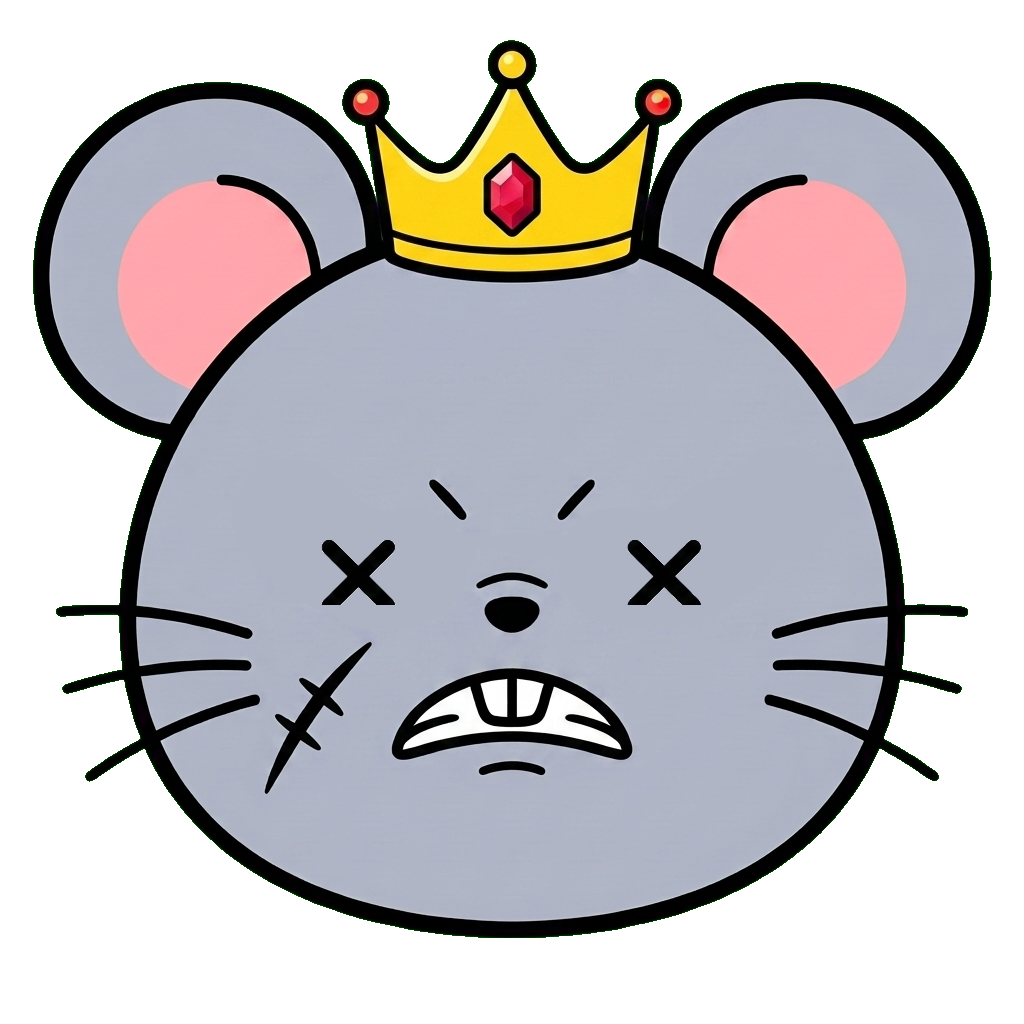
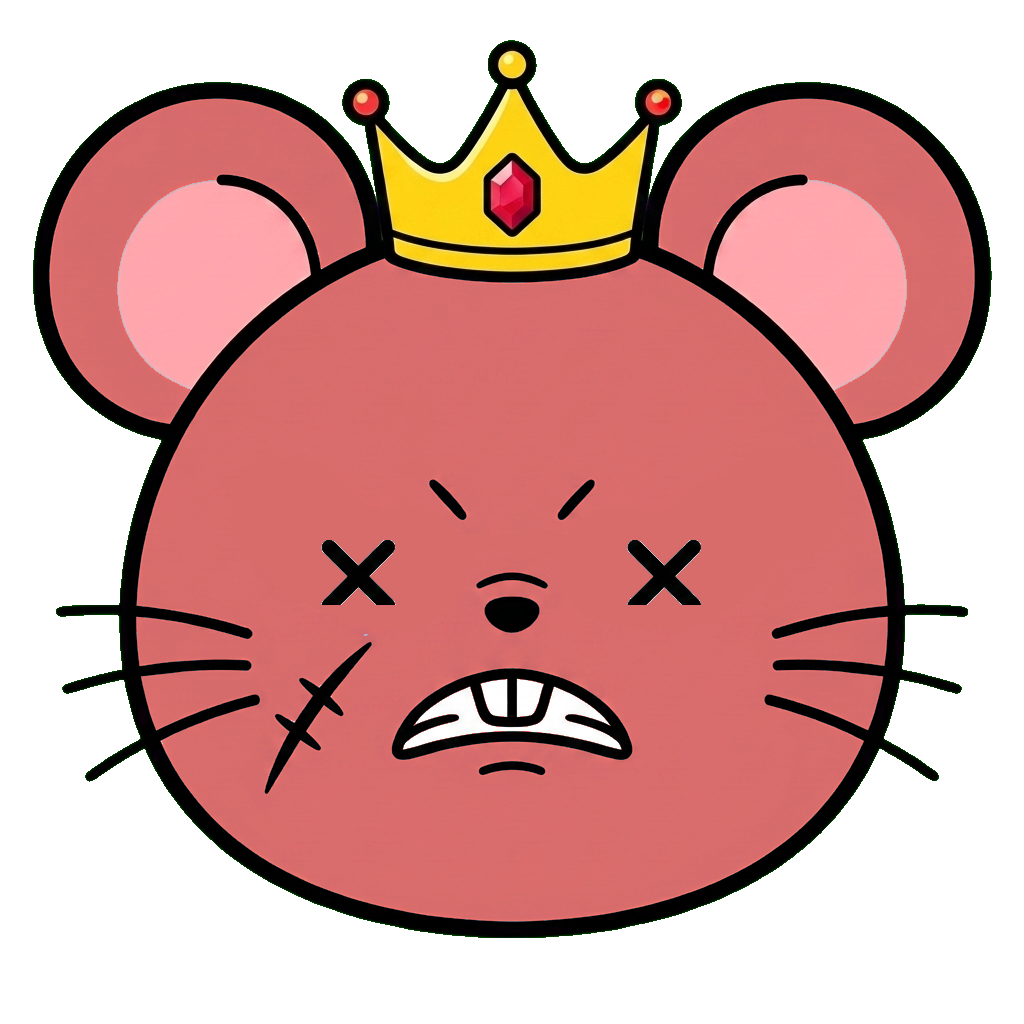
fix(skin): dead 색배리 + % 게이지 노트 옆 + bounce holding 만
dead 색배리:
- paw_mouse_holdhead_dead.png 회색 머리 (176,182,198) → 진한 빨강 (218,109,109)
- R*1.24 G*0.6 B*0.55 변환
- holdhead.png 톤 일치
- ears 분홍 (R>240) 보존

% 게이지 위치 변경:
- 화면 우측 상단 → 각 holding hold note 의 head sprite 우측 상단
- 폰트 sz(22) → sz(11) (안 거슬리게 작게)
- 색 흰색 + 검정 shadow
- 좌표: sx + hwBase*0.95, hY - hhBase*0.85

bounce 범위 변경:
- falling 시 bounce X (= n.holding 조건 추가)
- holding 시만 심장 박동 pulse

FORCE_REPATCH_VERSION 40 → 41

diff --git a/index.html b/index.html
@@ -22,7 +22,7 @@
 // E2E 6차 — 자동 reload 버튼 제거 + 안내 문구 모달 동작 검증.
 // E2E 7차 — Preview 가드 + 검색/차트 hitTest 차단 적용 후 정상 popup 트리거 검증.
 // E2E 8차 — 업데이트 모달 검은 오버레이 영역 입력 차단 검증.
-window.__BUILD_TS = 20260512180038;
+window.__BUILD_TS = 20260512181330;
 // ★ Firebase goOffline 부작용 — 인게임 진입 시 fbDb.goOffline() 호출하면 in-flight 중이던
 //   .set()/.once() Promise 들이 "Error: disconnect" 로 reject. 모두 fire-and-forget (결과 무관)
 //   이라 의도된 현상이지만 .catch 없이 쏘고 있어 "Uncaught (in promise)" 경고 스팸 발생.
@@ -1218,7 +1218,7 @@ const FORCE_REPATCH_LIST = [
 // ★ FORCE_REPATCH_VERSION — 매 force list PNG 변경 시 +1.
 //   사용자 환경 lastForceVersion < 이 값 이면 force list 의 PNG 자동 re-patch.
 //   사용자 받기 / patch 완료 시 lastForceVersion = 이 값 → 다음 reload 시 patch X.
-const FORCE_REPATCH_VERSION = 40;
+const FORCE_REPATCH_VERSION = 41;
 
 function assetUrl(path) {
   // ★ force list 의 PNG 는 ?v=lastReceived 또는 BUILD_TS query — 사용자 받기 마다 query 변경
@@ -11867,26 +11867,29 @@ function renderPawDeadFx() {
   ctx.restore();
 }
 
-// ★ paw_mouse 전용: 우측 상단에 hold body 남은 지속시간 % 표시
+// ★ paw_mouse 전용: 각 holding hold note 의 우측 상단에 남은 % (안 거슬리게 작게)
 function renderPawHoldPercent() {
   if (state !== 'playing' || currentSkin !== 'paw_mouse') return;
-  let pct = -1;
-  for (const n of nodes) {
-    if (n.holding && n.endTime > n.time) {
-      const remaining = Math.max(0, 1 - (gameTime - n.time) / (n.endTime - n.time));
-      if (remaining > pct) pct = remaining;
-    }
-  }
-  if (pct < 0) return;
-  const txt = Math.round(pct * 100) + '%';
   ctx.save();
-  ctx.font = 'bold ' + sz(22) + 'px sans-serif';
-  ctx.textAlign = 'right';
-  ctx.textBaseline = 'top';
-  ctx.fillStyle = 'rgba(0,0,0,0.6)';
-  ctx.fillText(txt, W - sz(18), safeTop + sz(18));
-  ctx.fillStyle = '#ff6680';
-  ctx.fillText(txt, W - sz(20), safeTop + sz(20));
+  ctx.font = 'bold ' + sz(11) + 'px sans-serif';
+  ctx.textAlign = 'left';
+  ctx.textBaseline = 'bottom';
+  const _vsH = SKINS.paw_mouse?.visualSize?.holdHead;
+  const _hwBase = _vsH?.widthMul ? _noteHW * _vsH.widthMul : _noteHW;
+  const _hhBase = _vsH?.heightRatio ? _hwBase * _vsH.heightRatio : _hwBase;
+  const hY = getHitY();
+  for (const n of nodes) {
+    if (!n.holding || n.endTime <= n.time) continue;
+    const remaining = Math.max(0, 1 - (gameTime - n.time) / (n.endTime - n.time));
+    const txt = Math.round(remaining * 100) + '%';
+    const sx = getLaneX(n.lane);
+    const tx = sx + _hwBase * 0.95;  // head sprite 우측 끝
+    const ty = hY - _hhBase * 0.85;  // head sprite 상단
+    ctx.fillStyle = 'rgba(0,0,0,0.7)';
+    ctx.fillText(txt, tx + 1, ty + 1);
+    ctx.fillStyle = '#fff';
+    ctx.fillText(txt, tx, ty);
+  }
   ctx.restore();
 }
 
@@ -12423,8 +12426,8 @@ function renderNotes() {
           let _hwVis = _vsH?.widthMul ? hw * _vsH.widthMul : hw;
           let _hhVis = _vsH?.heightRatio ? _hwVis * _vsH.heightRatio
                      : _vsH?.heightMul ? hh * _vsH.heightMul : hh;
-          // ★ paw_mouse trail: 떨어질 때부터 심장 박동 bounce pulse (= 항상 적용)
-          if (SKINS[currentSkin]?.holdBodyStyle === 'trail') {
+          // ★ paw_mouse trail: holding 시만 심장 박동 bounce pulse (falling 시 X)
+          if (SKINS[currentSkin]?.holdBodyStyle === 'trail' && n.holding) {
             const _bouncePulse = 1 + 0.12 * Math.sin(gameTime * 7);
             _hwVis *= _bouncePulse;
             _hhVis *= _bouncePulse;